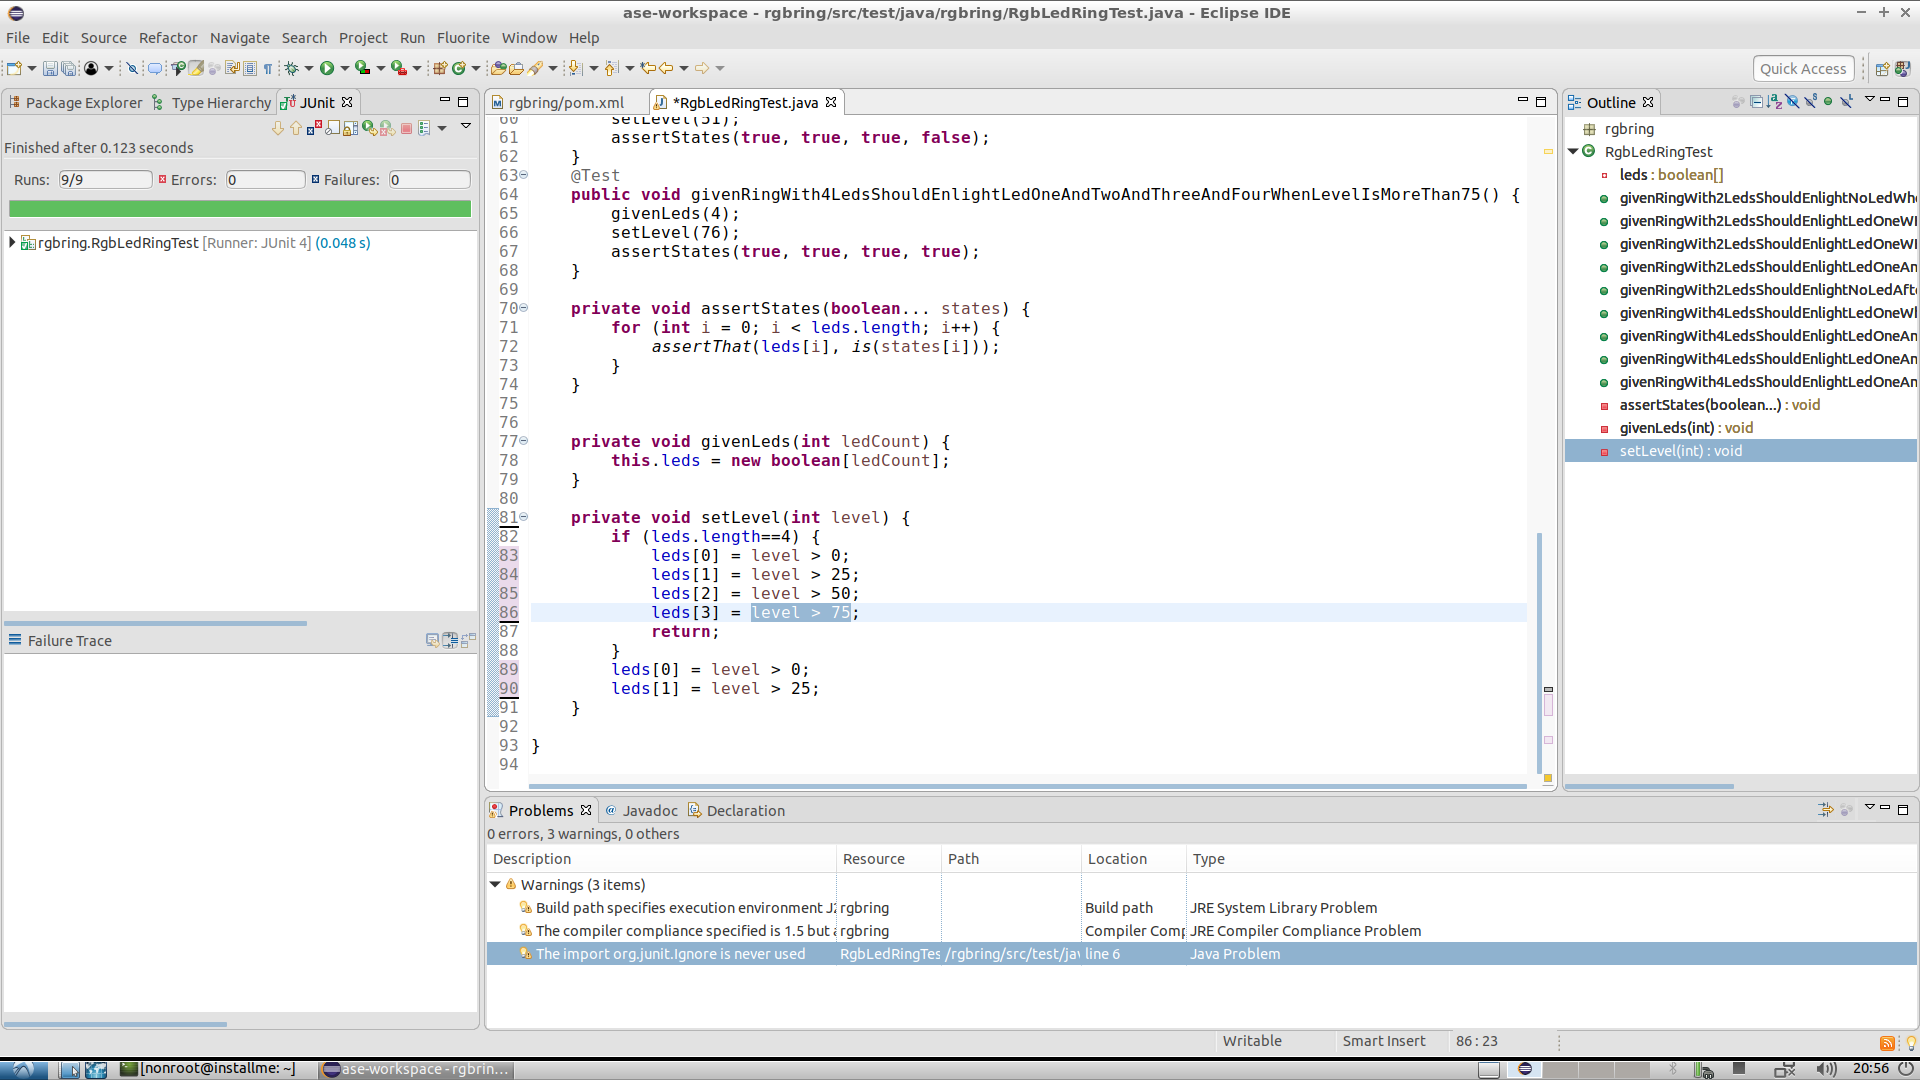
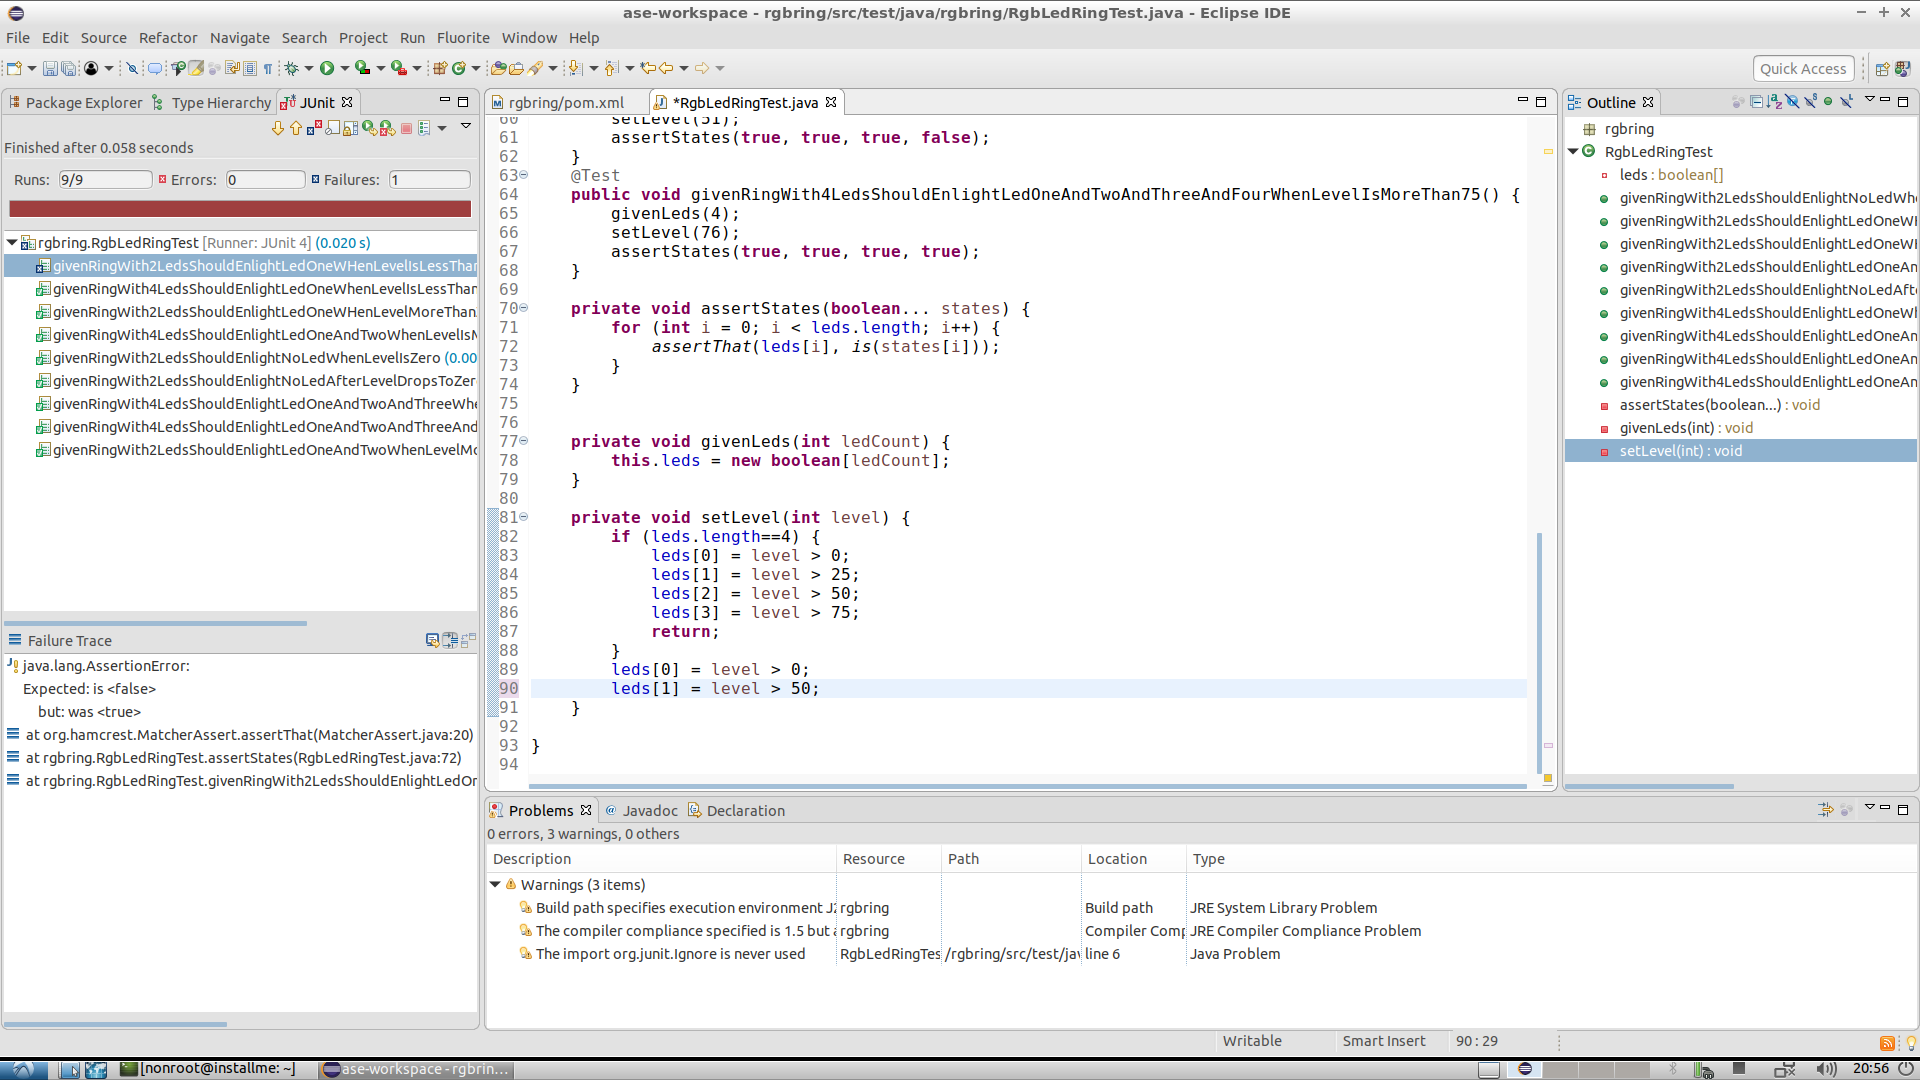
autocommit on change

diff --git a/src/test/java/rgbring/RgbLedRingTest.java b/src/test/java/rgbring/RgbLedRingTest.java
@@ -87,7 +87,7 @@ public class RgbLedRingTest {
 			return;
 		}
 		leds[0] = level > 0;
-		leds[1] = level > 25;
+		leds[1] = level > 50;
 	}
 
 }
